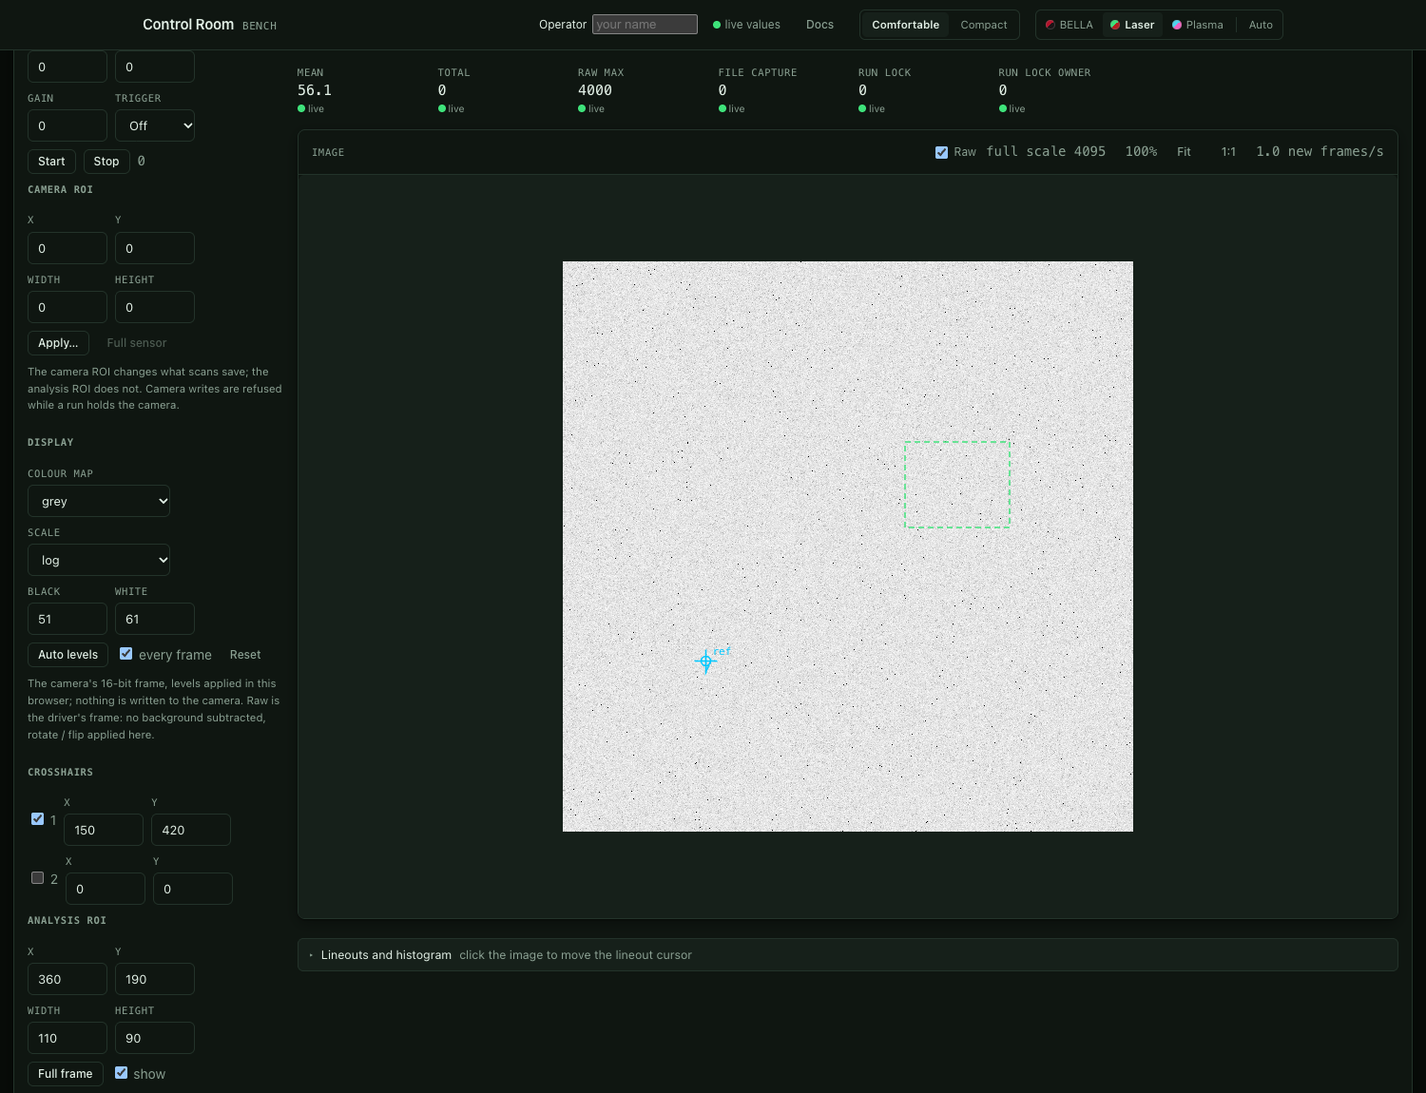
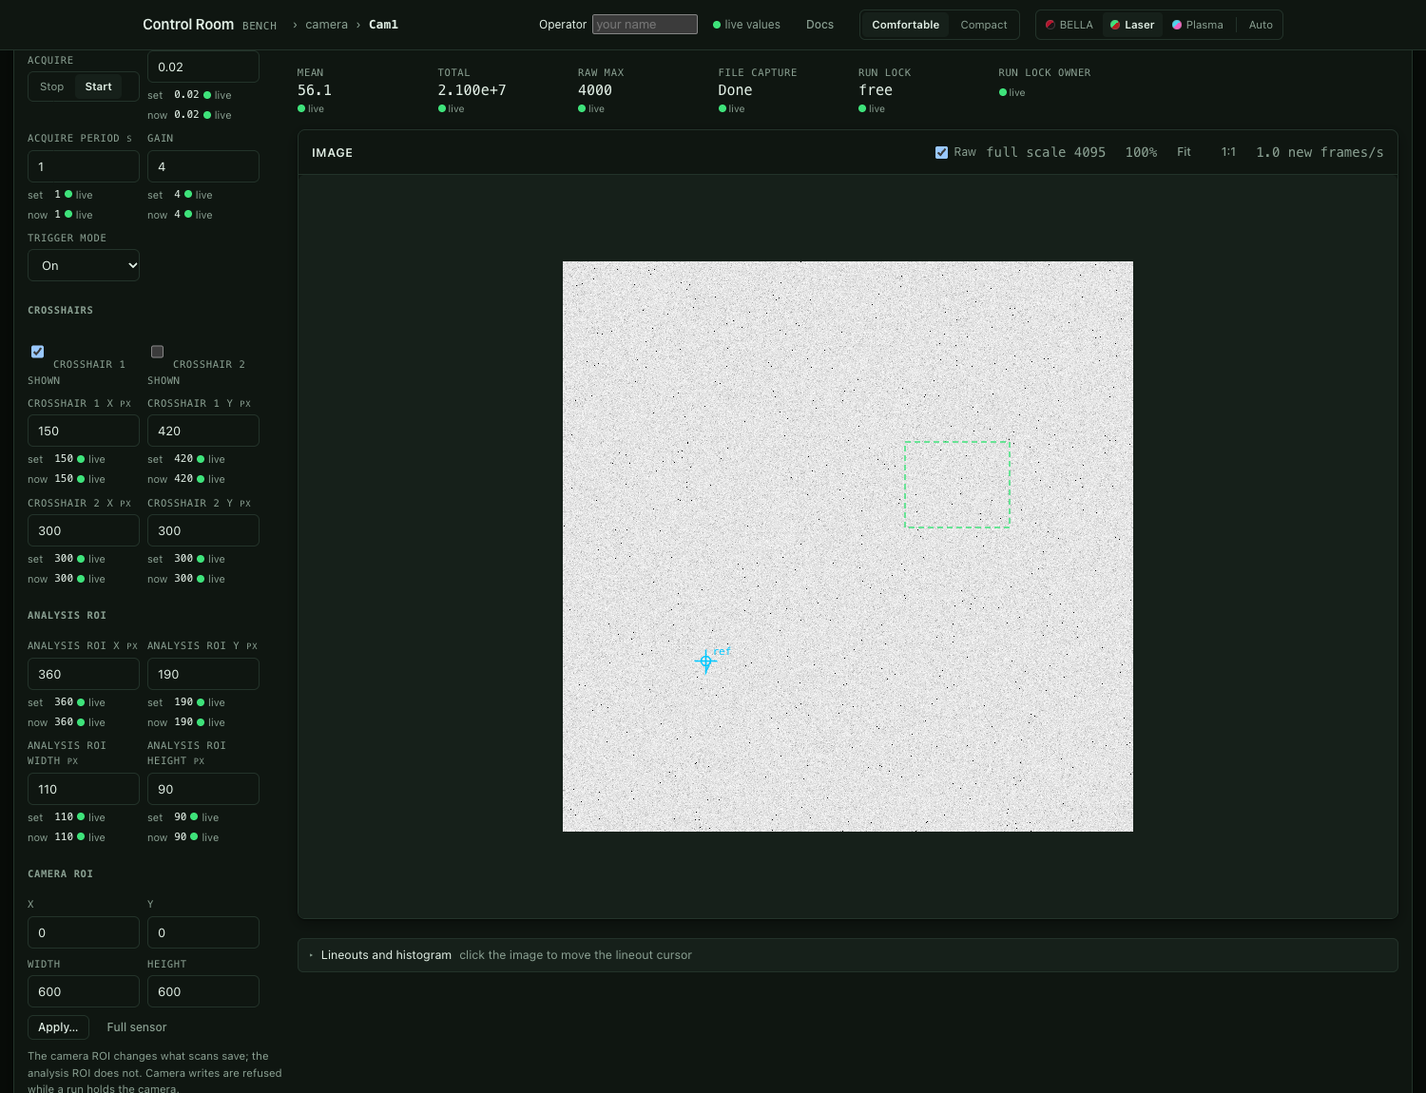
Control Room: the camera page draws its family's panel with the shared rail; a DB device spelled like a family draws no trace
The camera's acquisition, crosshairs, analysis ROI and readings are the
ad_camera_chain panel, drawn by _panel.html and filled/written by
device_rail.js through camera.js's writes; the camera ROI (behind its
dialog) and the display stay its own. The rail-and-pane grid moves to
device.css. traces.trace_pvs no longer looks a DB device type up as a
family (the module's source decides first).

diff --git a/GeecsControlRoom/geecs_control_room/templates/device_camera.html b/GeecsControlRoom/geecs_control_room/templates/device_camera.html
@@ -11,31 +11,25 @@
   with the operator's name, sent once; a run-locked role is refused by the
   module while a run holds the camera (its outcome says so). The lineouts
   and histogram are the on-request arrays (/api/devices/<name>/arrays), read
-  only while the plots are open. Every word is the module's verdict. Its
-  rail is still hand-coded (not the panel's _panel.html): the camera moves
-  onto its family's panel and the shared rail in a slice of its own.
-#}{% extends "device.html" %}
-{% macro num(role, label, step="any") -%}
-<div class="field coord"><label for="c-{{ role }}">{{ label }}</label><input type="number" id="c-{{ role }}" data-role="{{ role }}" step="{{ step }}" disabled></div>
+  only while the plots are open. Every word is the module's verdict. The
+  rail and the readings strip are the family's `panel` (acquisition,
+  crosshairs, the analysis ROI; _panel.html, device_rail.js: the device
+  pages' one control set); the camera ROI (one draft of four fields applied
+  behind its dialog: it changes what scans save) and the display (this
+  viewer's own) are the camera's own.
+#}{% extends "device.html" %}{% import "_panel.html" as P %}
+{% macro roi(role, label) -%}
+<div class="field coord"><label for="c-{{ role }}">{{ label }}</label><input type="number" id="c-{{ role }}" data-roi-role="{{ role }}" step="1" disabled></div>
 {%- endmacro %}
+{% block head %}{{ super() }}<link rel="stylesheet" href="{{ root }}/static/camera.css">{% endblock %}
 {% block kind_component %}
-{% set labels, units = {}, {} %}{% for r in device.roles %}{% set _ = labels.update({r.role: r.label or r.role}) %}{% endfor %}
-{% for _axis, rows in tables %}{% for r in rows %}{% set _ = units.update({r.name: r.units}) %}{% endfor %}{% endfor %}
 <div class="camera" id="camera" data-frame-url="{{ root }}/api/devices/{{ name | urlencode }}/frame.jpg" data-raw-url="{{ root }}/api/devices/{{ name | urlencode }}/frame.raw" data-arrays-url="{{ root }}/api/devices/{{ name | urlencode }}/arrays">
-  <aside class="rail">
+  <aside class="rail panel-rail">
+    {{ P.rail(panel, specs) }}
     <section class="group">
-      <h4>Camera</h4>
-      <div class="row">{{ num("exposure", "exposure s") }}{{ num("period", "period s") }}</div>
-      <div class="row">{{ num("gain", "gain") }}
-        <div class="field coord"><label for="c-trigger_mode">trigger</label><select id="c-trigger_mode" data-role="trigger_mode" disabled></select></div></div>
-      <div class="row">
-        <button class="btn sm" type="button" data-role="acquire" data-value="1" disabled>Start</button>
-        <button class="btn sm" type="button" data-role="acquire" data-value="0" disabled>Stop</button>
-        <span class="dim mono" id="acquire-now"></span>
-      </div>
       <h4>Camera ROI</h4>
-      <div class="row">{{ num("min_x", "x", 1) }}{{ num("min_y", "y", 1) }}</div>
-      <div class="row">{{ num("size_x", "width", 1) }}{{ num("size_y", "height", 1) }}</div>
+      <div class="row">{{ roi("min_x", "x") }}{{ roi("min_y", "y") }}</div>
+      <div class="row">{{ roi("size_x", "width") }}{{ roi("size_y", "height") }}</div>
       <div class="row">
         <button class="btn sm" type="button" id="cam-roi-apply" disabled>Apply…</button>
         <button class="btn sm ghost" type="button" id="cam-roi-full" disabled>Full sensor</button>
@@ -62,35 +56,17 @@
         <button class="btn sm ghost" type="button" id="reset-levels">Reset</button>
       </div>
       <div class="hint dim" id="levels-hint">The 8-bit stream, stretched in this browser: nothing is written to the camera.</div>
-    </section>
-
-    <section class="group">
-      <h4>Crosshairs</h4>
-      {% for n in (1, 2) %}
-      <div class="row crosshair" data-n="{{ n }}">
-        <label class="dim"><input type="checkbox" data-role="crosshair{{ n }}_use" disabled> {{ n }}</label>
-        {{ num("crosshair" ~ n ~ "_x", "x", 1) }}{{ num("crosshair" ~ n ~ "_y", "y", 1) }}
-      </div>
-      {% endfor %}
-      <h4>Analysis ROI</h4>
-      <div class="row">{{ num("roi_minx", "x", 1) }}{{ num("roi_miny", "y", 1) }}</div>
-      <div class="row">{{ num("roi_sizex", "width", 1) }}{{ num("roi_sizey", "height", 1) }}</div>
       <div class="row">
-        <button class="btn sm" type="button" id="roi-full" disabled>Full frame</button>
-        <label class="dim"><input type="checkbox" id="roi-show" checked> show</label>
+        <button class="btn sm" type="button" id="roi-full" disabled>Analysis ROI: full frame</button>
+        <label class="dim"><input type="checkbox" id="roi-show" checked> show the ROI</label>
       </div>
-      <div class="hint dim">Drag a crosshair's centre or the ROI's edges on the image.</div>
+      <div class="hint dim">Drag a crosshair's centre or the analysis ROI's edges on the image.</div>
     </section>
     <div class="out" id="write-out" data-state="unknown" role="status"></div>
   </aside>
 
   <div class="pane">
-    <div class="grid tight readings">
-      {% for role in ("state", "rate", "pixel_format", "cx", "cy", "sx", "sy", "max", "mean", "total", "raw_max", "capture", "lock", "owner") %}
-      <div class="live" data-role="{{ role }}"><span class="k">{{ labels.get(role, role) }}{% if units.get(role) %} <small>{{ units[role] }}</small>{% endif %}</span><span class="v">—</span>
-        <span class="ws"><span class="dot" data-state="unknown" aria-hidden="true"></span> <span class="word">unknown</span></span></div>
-      {% endfor %}
-    </div>
+    {{ P.readings(panel, specs) }}
     <div class="alarms" id="alarms"></div>
 
     <article class="panel image">

diff --git a/GeecsControlRoom/geecs_control_room/static/camera_controls.js b/GeecsControlRoom/geecs_control_room/static/camera_controls.js
@@ -1,10 +1,9 @@
-// The camera page's controls, DOM only: the acquisition controls (exposure,
-// period, gain, trigger mode, acquire), the camera ROI behind a confirm
-// dialog, the crosshairs and the analysis ROI by value, and the lineouts and
-// histogram (the on-request arrays, polled only while the plots are open).
-// Each control is a family role: filled from Hare, enabled on the module's
-// word (camera_rules.js's control), written through camera.js's write (the
-// module's put route, sent once, its outcome shown).
+// The camera page's controls, DOM only: the rail (the family's panel: acquisition, crosshairs, the analysis ROI)
+// is device_rail.js's, the device pages' one control set, written through camera.js's writes (one list at a time
+// for the page, shared with the image's edits); the camera ROI (one draft of four fields, applied behind its
+// dialog: it changes what scans save) and the lineouts and histogram (the on-request arrays, polled only while
+// the plots are open) are the camera's own. Each control is a family role: filled from Hare, enabled on the
+// module's word (camera_rules.js's control), written once through the module's put route, its outcome shown.
 (function () {
   "use strict";
   const P = window.GeecsDevicePage, R = window.GeecsCameraRules, V = window.GeecsCameraView;
@@ -14,44 +13,25 @@
   let roiDraft = false;
   // camera.js's write runs one list at a time for the page (the rail and the image's edits); null: refused, one runs
   const send = (pairs, confirmed = false) => V.write(pairs, confirmed);
+  const rail = window.GeecsDeviceRail.make(P, $("camera"), { write: V.write, busy: V.busy });
 
-  // ---- every [data-role] control: filled unless focused (or a camera-ROI draft), enabled on the module's word
-  const controls = [...document.querySelectorAll("#camera .rail [data-role]")];
+  // ---- the camera ROI's four fields: filled unless focused or holding the draft, enabled on the module's word
   const CAM_ROI = ["min_x", "min_y", "size_x", "size_y"];
+  const roiFields = CAM_ROI.map((role) => $(`c-${role}`));
   function fill() {
-    for (const el of controls) {
-      const role = el.dataset.role, c = R.control(P.view(), P.entry(role), V.busy());
+    for (const el of roiFields) {
+      const role = el.dataset.roiRole, c = R.control(P.view(), P.entry(role), V.busy()), v = V.value(role);
       el.disabled = !c.enabled;
       el.title = c.why;
-      const v = V.value(role);
-      if (el.tagName === "BUTTON") continue;
-      if (el.type === "checkbox") { el.checked = !!v; continue; }
-      if (el.tagName === "SELECT") {
-        const choices = P.meta(role).enumChoices || [];
-        if (el.options.length !== choices.length) el.replaceChildren(...choices.map((t, i) => new Option(t, String(i))));
-        if (!focused(el) && typeof v === "number") el.value = String(v);
-        continue;
-      }
-      if (focused(el) || (roiDraft && CAM_ROI.includes(role)) || typeof v !== "number") continue;
-      el.value = Number.isInteger(v) ? v : Number(v.toPrecision(6));
+      if (!focused(el) && !roiDraft && typeof v === "number") el.value = String(v);
     }
-    $("acquire-now").textContent = R.fmt(P.frame("acquire"), P.meta("acquire"));
     const roiOk = (role) => R.control(P.view(), P.entry(role), V.busy()).enabled;
     $("cam-roi-apply").disabled = !roiOk("min_x");
     $("cam-roi-full").disabled = !roiOk("min_x") || !(V.value("max_x") > 0);
     $("roi-full").disabled = !roiOk("roi_minx") || !V.frameSize()[0]; // no full frame while the geometry is unknown
   }
-  V.hooks.push(fill);
-
-  const DRAFT = (el) => el.closest(".rail") && CAM_ROI.includes(el.dataset.role);
-  for (const el of controls) {
-    if (el.tagName === "BUTTON") { el.addEventListener("click", () => send([[el.dataset.role, Number(el.dataset.value)]])); continue; }
-    if (DRAFT(el)) { el.addEventListener("input", () => { roiDraft = true; $("cam-roi-revert").hidden = false; }); continue; }
-    el.addEventListener("change", () => {
-      const v = window.GeecsDeviceRules.writeValue({ type: el.type, tag: el.tagName, step: el.step, checked: el.checked, raw: el.value });
-      if (v !== null) send([[el.dataset.role, v]]);
-    });
-  }
+  V.hooks.push(fill, rail.fill); // a write's start and end: the controls disabled, then enabled
+  for (const el of roiFields) el.addEventListener("input", () => { roiDraft = true; $("cam-roi-revert").hidden = false; });
 
   // ---- the camera ROI: one draft of four fields, applied behind the dialog (it changes what scans save)
   const revert = () => { roiDraft = false; $("cam-roi-revert").hidden = true; fill(); };

diff --git a/GeecsControlRoom/geecs_control_room/static/camera.css b/GeecsControlRoom/geecs_control_room/static/camera.css
@@ -1,14 +1,6 @@
-/* The camera page (device_camera.html): the rail of controls beside the
-   readings, the image and the plots. Tokens only (GeecsWebTheme's guard). */
-.kit .camera{display:grid;grid-template-columns:270px minmax(0,1fr);gap:var(--gap);padding:var(--pad)}
-@media (max-width:900px){.kit .camera{grid-template-columns:minmax(0,1fr)}}
-.kit .camera .rail{position:static;max-height:none}
-.kit .camera .rail .hint{font-size:11.5px}
+/* The camera page (device_camera.html): its own camera ROI and display fields, the image and the plots (the
+   rail-and-pane grid and the readings are device.css's, every device page's). Tokens only (GeecsWebTheme's guard). */
 .kit .camera .field.coord,.kit .camera .field.levels{min-width:0;width:84px}
-.kit .camera .pane{display:flex;flex-direction:column;gap:var(--gap);min-width:0}
-.kit .camera .readings{grid-template-columns:repeat(auto-fill,minmax(120px,1fr))}
-.kit .camera .readings .live .v{font-size:15px}
-.kit .camera .readings .ws{font-size:10.5px;color:var(--muted)}
 /* The image fills most of the window's height; the canvas is sized to it in device pixels (camera.js). */
 .kit .viewport{position:relative;height:min(68vh,calc(100vh - 300px));min-height:360px;background:var(--surface-2);border-radius:var(--r);overflow:hidden;touch-action:none;cursor:crosshair}
 .kit .viewport canvas{display:block;width:100%;height:100%;cursor:inherit}
@@ -20,10 +12,10 @@
 .kit .plot-head .key::before{content:"";display:inline-block;width:10px;height:2px;margin-right:4px;vertical-align:middle;background:currentColor}
 .kit .plot-head .key.t1{color:var(--trace-1)}
 .kit .plot-head .key.t2{color:var(--trace-2)}
-.kit .operator{display:inline-flex;align-items:center;gap:6px;font-size:12px}
 .kit .device[data-kind="camera"]{max-width:none}
-.kit #hazard-dialog-text{white-space:pre-line}
 /* The Raw toggle and its note (the transform applied, the full scale; an unknown transform warns). */
 .kit .panel.image header .raw-toggle{display:inline-flex;align-items:center;gap:4px;font-size:12px}
 .kit .panel.image header #raw-note:empty{display:none}
 .kit .panel.image header #raw-note[data-state="degraded"]{color:var(--warn)}
+/* The camera's rail is the panel's (_panel.html): two fields to a row in its narrow column, set / now under each. */
+.kit #camera .panel-rail .field,.kit #camera .panel-rail .field.setpoint{width:118px}

diff --git a/GeecsControlRoom/geecs_control_room/static/camera.js b/GeecsControlRoom/geecs_control_room/static/camera.js
@@ -1,6 +1,6 @@
 // The camera page's viewer, DOM only: the frame loop, zoom and pan, this
 // viewer's colour map and levels, the crosshairs and analysis ROI drawn and
-// dragged over the image, and the live readings. The PVs and words are the
+// dragged over the image (the rail and the readings are device_rail.js's). The PVs and words are the
 // module's (window.GeecsDevicePage, from device.js), the values Hare's, every
 // write the module's put route.
 //
@@ -393,16 +393,10 @@
     $("fps").textContent = `${(shown.length / 2).toFixed(1)} new frames/s`;
   }, 500);
 
-  // ---- the readings, the image chip, the device's errors: the module's words, Hare's values
+  // ---- the image chip and the overlays on every change (the readings and the device's errors are the rail's)
   let queued = false;
   function refresh() {
     queued = false;
-    for (const el of box.querySelectorAll(".live[data-role]")) {
-      const role = el.dataset.role, word = P.entry(role) ? P.word(role) : "not served";
-      el.querySelector(".v").textContent = R.fmt(P.frame(role), P.meta(role));
-      el.querySelector(".word").textContent = word;
-      el.querySelector(".dot").dataset.state = KIT[word] || "unknown";
-    }
     // the transform changed under a held raw frame: drawn again with the new one (before the first, only said)
     if (raw && heldRaw && transformNow() !== rawState.transform) takeRaw(heldRaw);
     else if (raw && !heldRaw) rawState = { ...rawState, transform: transformNow() };
@@ -410,8 +404,6 @@
     const chip = R.imageChip(P.entry("image_counter") ? P.word("image_counter") : "unknown");
     $("image-state").textContent = chip.text;
     $("image-state").dataset.state = KIT[chip.word] || "unknown";
-    const bad = R.alarms(P.view());
-    $("alarms").textContent = bad.length ? `in error: ${bad.join(", ")}` : "";
     sized();
     draw();
     hooks.forEach((f) => f());

diff --git a/GeecsControlRoom/geecs_control_room/static/device.css b/GeecsControlRoom/geecs_control_room/static/device.css
@@ -11,6 +11,16 @@
 .kit .device table.roles td.ws{color:var(--muted)}
 .kit .device details.disc{margin-top:6px}
 .kit .hare{display:inline-flex;align-items:center;gap:4px;font-size:12px;color:var(--muted)}
+/* Every device page's component: the rail beside the pane (the readings, then the camera's image or the trace's
+   plot), one column on a narrow window (class `camera`, the first page that had it). */
+.kit .camera{display:grid;grid-template-columns:270px minmax(0,1fr);gap:var(--gap);padding:var(--pad)}
+@media (max-width:900px){.kit .camera{grid-template-columns:minmax(0,1fr)}}
+.kit .camera .rail{position:static;max-height:none}
+.kit .camera .rail .hint{font-size:11.5px}
+.kit .camera .pane{display:flex;flex-direction:column;gap:var(--gap);min-width:0}
+.kit .camera .readings{grid-template-columns:repeat(auto-fill,minmax(120px,1fr))}
+.kit .camera .readings .live .v{font-size:15px}
+.kit .camera .readings .ws{font-size:10.5px;color:var(--muted)}
 /* The rail and readings of every page drawn from a panel (_panel.html: the settables page, the trace page),
    in camera.css's rail-and-pane layout: short fields that wrap, a setpoint's readback under it, a tweak's
    step between its − and +, a grid group's cells. */
@@ -46,3 +56,6 @@
 .kit .device .out[data-state="failed"]{color:var(--crit)}
 .kit .device .alarms{color:var(--crit);font-size:11.5px}
 .kit .device .alarms:empty{display:none}
+/* The header's operator field and the hazard dialog's list of writes, on every device page. */
+.kit .operator{display:inline-flex;align-items:center;gap:6px;font-size:12px}
+.kit #hazard-dialog-text{white-space:pre-line}

diff --git a/GeecsControlRoom/geecs_control_room/templates/device.html b/GeecsControlRoom/geecs_control_room/templates/device.html
@@ -20,7 +20,7 @@
   device) is complete with no template of its own.
 #}{% extends "base.html" %}{% import "_panel.html" as P %}
 {% block title %}{{ name or kind }}{% endblock %}
-{% block head %}<link rel="stylesheet" href="{{ root }}/static/device.css"><link rel="stylesheet" href="{{ root }}/static/camera.css">{% endblock %}
+{% block head %}<link rel="stylesheet" href="{{ root }}/static/device.css">{% endblock %}
 {% block crumbs %}{% if kind in kinds %}<nav class="crumbs" aria-label="Breadcrumb"><span class="sep" aria-hidden="true">›</span>
   {% if name %}<a href="{{ root }}/device/{{ kind }}">{{ kind }}</a><span class="sep" aria-hidden="true">›</span><span class="mono" aria-current="page">{{ name }}</span>
   {% else %}<span aria-current="page">{{ kind }}</span>{% endif %}</nav>{% endif %}{% endblock %}

diff --git a/GeecsControlRoom/geecs_control_room/static/device_rail.js b/GeecsControlRoom/geecs_control_room/static/device_rail.js
@@ -103,7 +103,7 @@
       }
       for (const el of box.querySelectorAll("[data-egu]")) el.textContent = D.units(el.dataset.type, "", pg(el).meta(el.dataset.egu, axisOf(el)));
       const names = known();
-      for (const g of box.querySelectorAll(".panel-rail .group")) {
+      for (const g of box.querySelectorAll(".panel-rail .group[data-roles]")) { // a panel group: a page's own groups beside it carry none
         const present = D.presentRole(JSON.parse(g.dataset.roles), names);
         g.hidden = !!present && D.hidden(pg(g).frame(present, paneAxis(g)));
       }

diff --git a/GeecsControlRoom/geecs_control_room/static/trace.css b/GeecsControlRoom/geecs_control_room/static/trace.css
@@ -1,4 +1,4 @@
-/* The trace page (device_trace.html): camera.css's rail-and-pane layout, the
+/* The trace page (device_trace.html): device.css's rail-and-pane layout, the
    rail device.css's (.panel-rail, every panel page's), the plot (Plotly, the theme's template) filling the pane.
    Tokens only (GeecsWebTheme's guard). */
 .kit .device[data-kind="trace"]{max-width:none}

diff --git a/GeecsControlRoom/tests/test_module_contract.py b/GeecsControlRoom/tests/test_module_contract.py
@@ -754,3 +754,22 @@ async def test_a_select_and_a_valued_toggle_draw_the_rails_controls_and_write_th
     assert (status, body["outcome"]) == (200, "accepted") and room.env.hare.puts[-1][
         1
     ] == 1
+
+
+async def test_the_camera_page_draws_its_familys_panel_with_the_rails_controls(
+    room,
+) -> None:
+    """The camera's rail and readings are the family's panel, drawn by the shared macros; its camera ROI stays its own, out of the rail's reach."""
+    page = (await room.client.get("/device/camera/Cam1")).text
+    assert _groups(page) == [
+        ("Acquisition", ["acquire", "exposure", "period", "gain", "trigger_mode"]),
+        ("Crosshairs", ["crosshair1_use", "crosshair2_use", "crosshair1_x", "crosshair1_y", "crosshair2_x", "crosshair2_y"]),
+        ("Analysis ROI", ["roi_minx", "roi_miny", "roi_sizex", "roi_sizey"]),
+    ]  # fmt: skip
+    # a setting is the setpoint control; acquire the panel's Stop / Start pair
+    assert re.search(r'<div class="field setpoint"><label for="[^"]+">exposure <small>s</small></label><input type="number" id="[^"]+" data-role="exposure"', page)  # fmt: skip
+    assert re.findall(r'data-role="acquire" data-value="(\d)" data-pair aria-pressed="false" disabled>(\w+)<', page) == [("0", "Stop"), ("1", "Start")]  # fmt: skip
+    # the readings strip is the panel's; the camera ROI's fields carry no data-role, so the rail never writes them
+    assert re.findall(r'<div class="live" data-role="([^"]+)"', page)[:3] == ["state", "rate", "pixel_format"]  # fmt: skip
+    rail = re.search(r'<aside class="rail panel-rail">.*?</aside>', page, re.S).group(0)
+    assert 'data-roi-role="min_x"' in rail and 'data-role="min_x"' not in rail

diff --git a/GeecsControlRoom/geecs_control_room/images.py b/GeecsControlRoom/geecs_control_room/images.py
@@ -305,7 +305,9 @@ class Images:
                 self._good.pop(name, None)
             raise Unavailable(503, f"the module answered {status} for {name}")
         roles = {r["role"]: r for r in body.get("roles") or [] if r.get("pv") and not r.get("axis")}  # fmt: skip
-        self._good[name], self._family[name] = roles, body.get("family")
+        # the source decides first: a DB device's family is its DB device type, never looked up as a family file
+        family = None if body.get("source") == "gateway" else body.get("family")
+        self._good[name], self._family[name] = roles, family
         return roles
 
     @property
@@ -314,7 +316,7 @@ class Images:
         return self._ca
 
     def family(self, name: str) -> Optional[str]:
-        """The device's family as the module's device route last named it (after :meth:`roles`)."""
+        """The device's family template as the module's device route last named it (after :meth:`roles`); ``None`` for a DB device."""
         return self._family.get(name)
 
     async def frame(self, module: ModuleClient, name: str) -> Jpeg:

diff --git a/GeecsControlRoom/tests/test_images.py b/GeecsControlRoom/tests/test_images.py
@@ -174,13 +174,17 @@ class Env:
         self.family: str | None = (
             None  # the device route's family (the trace route reads it)
         )
+        self.source: str | None = (
+            None  # the device route's source ("gateway": a DB device)
+        )
 
         def answer(request: httpx.Request) -> httpx.Response:
             self.reads += 1
             if self.status == 0:
                 raise httpx.ConnectError("refused", request=request)
             body = {"name": "Cam", "roles": self.roles}
-            return httpx.Response(self.status, json=body | ({"family": self.family} if self.family else {}))  # fmt: skip
+            body |= {"family": self.family} if self.family else {}
+            return httpx.Response(self.status, json=body | ({"source": self.source} if self.source else {}))  # fmt: skip
 
         self.module = ModuleClient("http://canopy.test", "k", transport=httpx.MockTransport(answer))  # fmt: skip
         self.images = Images(self.ca, self.fetch, clock=lambda: self.clock[0])

diff --git a/GeecsControlRoom/tests/test_traces.py b/GeecsControlRoom/tests/test_traces.py
@@ -227,3 +227,15 @@ async def test_the_array_is_asked_by_name_and_an_array_the_axis_does_not_draw_is
         r = await c.get(URL + "?y=count")
     assert r.status_code == 404 and r.json()["detail"] == "the axis wavelength draws no array 'count': it draws spectrum, processed"  # fmt: skip
     assert reads(env) == []  # refused before any read
+
+
+async def test_a_db_device_spelled_like_a_family_draws_no_trace() -> None:
+    """The source decides first: a DB device's family is its DB device type, never looked up as a family file (device_pages.resolve's rule)."""
+    env = scope()
+    env.source = (
+        "gateway"  # a GEECS DB device whose type happens to be named scope_contract
+    )
+    async with client(env) as c:
+        r = await c.get(URL)
+    assert r.status_code == 404 and "names no trace" in r.json()["detail"]
+    assert not [a for k, a in env.ca.calls if k == "floats"]  # nothing read over CA
